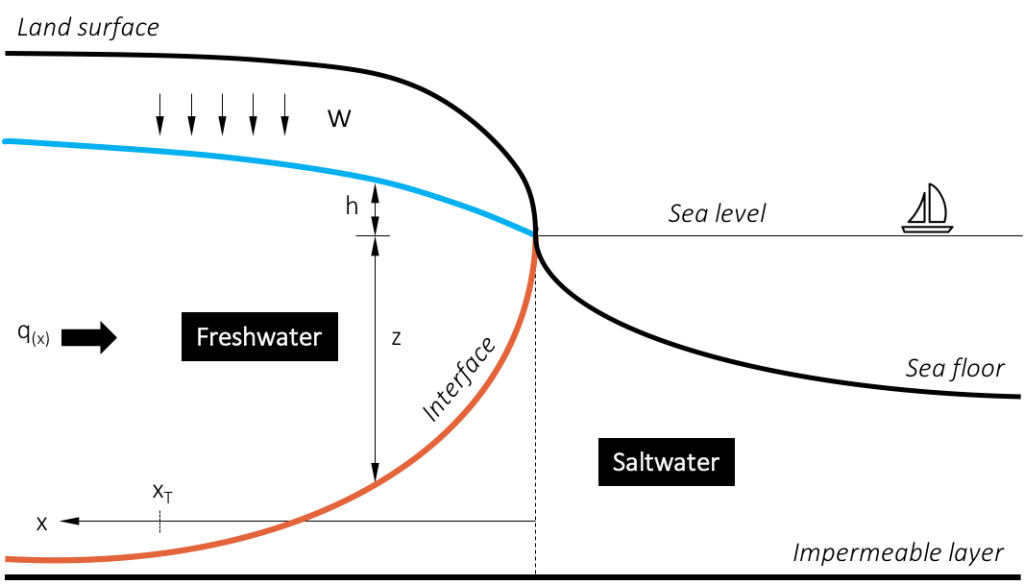
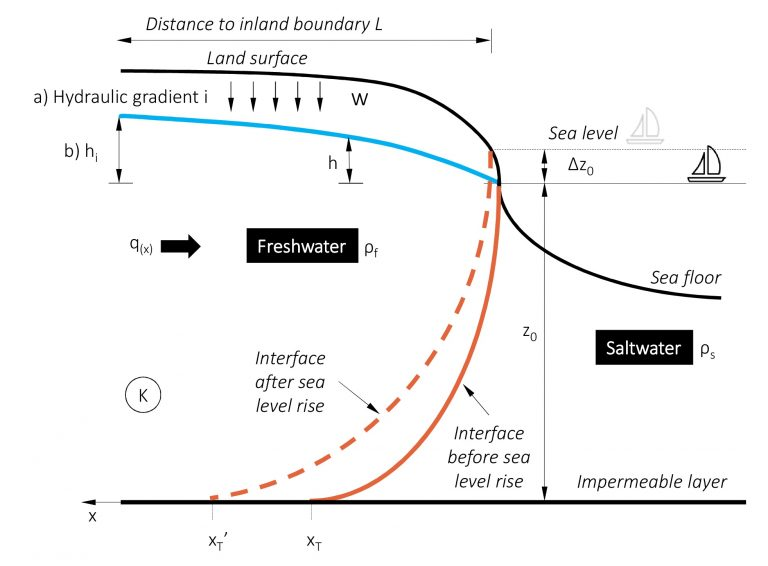
T09E: constant head implemented

diff --git a/src/t09/components/chartT09E.jsx b/src/t09/components/chartT09E.jsx
@@ -5,48 +5,158 @@ import {pure} from 'recompose';
 import '../../less/toolDiagram.less';
 
 import {
-    Bar,
-    BarChart,
-    Legend,
     ResponsiveContainer,
-    XAxis
-} from 'recharts';
+    LineChart,
+    Line,
+    XAxis,
+    YAxis,
+    CartesianGrid,
+    ReferenceLine
+} from "recharts";
 
-const Chart = () => {
+// TODO: implement this eq in library
+
+export function calculateDiagramData(xt,z0, xt_slr, z0_slr, valid) {
+
+    let data = [{
+        xt: 0,
+        z0: 0,
+        z0_new: 0
+    },{
+        xt: -xt,
+        z0: -z0,
+        z0_new: -(z0_slr*(xt/xt_slr))
+    },{
+        xt: -xt_slr,
+        z0_new: -z0_slr
+    }
+    ];
+    if (valid === 'false') data =[{        xt: 0,
+        z0: 0,
+        z0_new: 0}];
+    return data;
+}
+
+export function dRho(rhof, rhos){
+    return rhof/(rhos-rhof);
+}
+
+export  function calcXtQ0(K, z0, dz, L, W, hi, alpha) {
+    const zn = z0+dz;
+    var   loop = 1;
+    const ht = z0/alpha;
+    const term1 = ((hi+zn)*(hi+zn)-(ht+zn)*(ht+zn))*K/2. ;
+    var q0 = 1; //start value
+    var q0_old = q0;
+    var xt = 0;
+    var iter = 0; var max_iter = 'false';
+    const iter_max = 100;
+    const q_min = Math.sqrt((W*K*(1+alpha)*zn*zn)/(alpha*alpha));
+    var valid = 'true';
+    do {
+        if ((q0 * q0 / (W * W)) < (K * (1 + alpha) * zn * zn) / (W * alpha * alpha)){ valid = 'false'; break;}
+        xt = (q0 / W) - Math.sqrt((q0 * q0 / (W * W)) - (K * (1 + alpha) * zn * zn) / (W * alpha * alpha));
+        q0 = (term1 / (L - xt)) + W * (L + xt) / 2;
+        if (Math.abs(q0_old-q0)<0.0000001) loop = 0;
+        q0_old = q0;
+        iter++;
+    } while (loop === 1 && iter < iter_max);
+    if (iter === iter_max){max_iter = 'true';}
+    return [xt, q0, max_iter, valid]
+}
+export function resultDiv(max_iter, valid, dxt) {
+    if (valid === 'false'){
+        return (
+            <div className="diagram-labels-left">
+                <div className="diagram-label">
+                    <p>Invalid values: square root gets minus.</p>
+                    <p>Offshore discharge rate is less than minimum discharge rate</p>
+                </div>
+            </div>
+        );
+    }
+    if (max_iter === 'true'){
+        return (
+            <div className="diagram-labels-left">
+                <div className="diagram-label">
+                    <p>Maximum number of iterations are conducted.</p>
+                    <p>Change in x <sub>t</sub>&nbsp;=&nbsp;<strong>{dxt.toFixed(1)}</strong>&nbsp;m</p>
+                </div>
+            </div>
+        );
+    }
+
+    return(
+        <div className="diagram-labels-left">
+            <div className="diagram-label">
+                <p>Change in x <sub>t</sub>&nbsp;=&nbsp;<strong>{dxt.toFixed(1)}</strong>&nbsp;m</p>
+            </div>
+        </div>
+    );
+
+}
+const Chart = ({k, z0, l, w, dz, hi, df, ds}) => {
+    const alpha = dRho(df, ds);
+    var max_iter = 'false'; var valid = 'true';
+    var xtQ0  = calcXtQ0(k, z0, 0, l, w, hi, alpha);
+    const xt =  xtQ0[0];
+    const q0 =  xtQ0[1];    max_iter = xtQ0[2]; valid = xtQ0[3];
+        xtQ0  = calcXtQ0(k, z0, dz, l, w, hi-dz, alpha);
+    const xt_slr =  xtQ0[0]; const dxt = xt_slr-xt; // slr: after sea level rise
+    const q0_slr =  xtQ0[1];
+    if (max_iter === 'false')max_iter = xtQ0[2];
+    if (valid === 'true')valid = xtQ0[3];
+    const data = calculateDiagramData(xt,z0, xt_slr, z0+dz, valid);
     return (
         <div>
             <h2>Calculation</h2>
             <div className="grid-container">
                 <div className="col stretch">
                     <div className="diagram">
-                        <ResponsiveContainer width="100%" aspect={2.0 / 1.0}>
-                            <p>CHART HERE</p>
+                        <ResponsiveContainer width={'100%'} aspect={2.0 / 1.0}>
+                            <LineChart data={data} margin={{
+                                top: 20,
+                                right: 55,
+                                left: 50,
+                                bottom: 0
+                            }}>
+
+                                <XAxis type="number" dataKey="xt"/>
+                                <YAxis type="number" allowDecimals={false} tickLine={false} tickFormatter={(x) => {return x.toFixed(1)}} orientation="right"/>
+                                <CartesianGrid strokeDasharray="3 3"/>
+                                <Line isAnimationActive={false} type="basis" dataKey={'z0'} stroke="#ED8D05" strokeWidth="5" dot={false}/>
+                                <Line isAnimationActive={false} type="basis" dataKey={'z0_new'} stroke="#1EB1ED" strokeWidth="5" dot={false}/>
+                            </LineChart>
                         </ResponsiveContainer>
-                        <div className="diagram-labels-right">
-                            <div className="diagram-label">
-                                <p>Label here</p>
-                            </div>
-                            <div className="diagram-label">
-                                <p>Label here</p>
-                            </div>
+                        <div className="diagram-ylabels-right">
+                            <p>z<sub>0</sub> (m)</p>
                         </div>
+                        {resultDiv(max_iter, valid, dxt)}
+                        <p className="center-vertical center-horizontal">x<sub>w</sub> (m)</p>
                     </div>
                 </div>
-                <div className="col col-rel-0-5">
-                    <ul className="nav nav-stacked" role="navigation">
-                        <li><button className="button">PNG</button></li>
-                        <li><button className="button">CSV</button></li>
-                    </ul>
-                </div>
+                {/*<div className="col col-rel-0-5">*/}
+                {/*<ul className="nav nav-stacked" role="navigation">*/}
+                {/*<li>*/}
+                {/*<button className="button">PNG</button>*/}
+                {/*</li>*/}
+                {/*<li>*/}
+                {/*<button className="button">CSV</button>*/}
+                {/*</li>*/}
+                {/*</ul>*/}
+                {/*</div>*/}
             </div>
         </div>
     );
 };
 
 Chart.propTypes = {
-    h: PropTypes.number.isRequired,
+    k: PropTypes.number.isRequired,
+    l: PropTypes.number.isRequired,
+    w: PropTypes.number.isRequired,
+    z0: PropTypes.number.isRequired,
+    ds: PropTypes.number.isRequired,
     df: PropTypes.number.isRequired,
-    ds: PropTypes.number.isRequired
 };
 
 export default pure(Chart);

diff --git a/src/t09/reducers/T09E.js b/src/t09/reducers/T09E.js
@@ -10,16 +10,16 @@ export const getInitialState = (tool) => {
             name: 'Hydraulic conductivity, K (m/d)',
             min: 1,
             max: 100,
-            value: 50,
+            value: 10,
             stepSize: 1,
             decimals: 0
         }, {
             order: 1,
-            id: 'z',
+            id: 'z0',
             name: 'Depth to base of aquifer, z0 (m)',
             min: 0,
             max: 100,
-            value: 15,
+            value: 25,
             stepSize: 1,
             decimals: 0
         }, {
@@ -27,8 +27,8 @@ export const getInitialState = (tool) => {
             id: 'l',
             name: 'Distance to inland boundary, L (m)',
             min: 0,
-            max: 100,
-            value: 50,
+            max: 10000,
+            value: 2000,
             stepSize: 1,
             decimals: 0
         }, {
@@ -36,17 +36,17 @@ export const getInitialState = (tool) => {
             id: 'w',
             name: 'Recharge rate, w (m³/d)',
             min: 0,
-            max: 200,
-            value: 50,
-            stepSize: 1,
-            decimals: 0
+            max: 0.001,
+            value: 0.0001,
+            stepSize: 0.0001,
+            decimals: 4
         }, {
             order: 4,
             id: 'dz',
             name: 'Sea level rise, dz0 (m)',
             min: 0,
-            max: 0.5,
-            value: 0.1,
+            max: 2,
+            value: 1,
             stepSize: 0.01,
             decimals: 2
         }, {
@@ -54,10 +54,10 @@ export const getInitialState = (tool) => {
             id: 'hi',
             name: 'Constant head at inland boundary, hi (m)',
             min: 0,
-            max: 100,
-            value: 5,
-            stepSize: 1,
-            decimals: 0
+            max: 10,
+            value: 2,
+            stepSize: 0.1,
+            decimals: 1
         }, {
             order: 6,
             id: 'df',

diff --git a/src/t09/containers/T09.js b/src/t09/containers/T09.js
@@ -9,7 +9,7 @@ import image9A from '../../images/tools/T09A.png';
 import image9B from '../../images/tools/T09B.png';
 import image9C from '../../images/tools/T09C.png';
 import image9D from '../../images/tools/T09D.png';
-// import image9E from '../../images/tools/T09E.png';
+import image9E from '../../images/tools/T09E.png';
 
 import Icon from '../../components/primitive/Icon';
 import Navbar from '../../containers/Navbar';
@@ -100,6 +100,18 @@ class T09 extends React.Component {
                             </p>
                             <div className="center-horizontal center-vertical">
                                 <img className="sketch-image" src={image9D}/>
+                            </div>
+                        </div>
+                    </a>
+                    <a style={{'cursor': 'pointer'}} onClick={() => this.redirectTo('T09E')}
+                       className="tile col col-rel-1-t13">
+                        <div className="div-block">
+                            <h1>T09E</h1>
+                            <p className="p-height">
+                                Sea level rise
+                            </p>
+                            <div className="center-horizontal center-vertical">
+                                <img className="sketch-image" src={image9E}/>
                             </div>
                         </div>
                     </a>

diff --git a/src/t09/containers/T09E.js b/src/t09/containers/T09E.js
@@ -6,7 +6,7 @@ import {withRouter} from 'react-router';
 import '../../less/4TileTool.less';
 
 import image from '../../images/tools/T09E.png';
-import {Background, ChartT09D as Chart, Parameters} from '../components';
+import {Background, ChartT09E as Chart, Parameters} from '../components';
 import {WebData, LayoutComponents} from '../../core';
 
 import Icon from '../../components/primitive/Icon';
@@ -187,7 +187,7 @@ class T09E extends React.Component {
             <div className="app-width">
                 <Navbar links={navigation}/>
                 <h3 style={styles.heading}>
-                    T09C. Saltwater intrusion // Critical well discharge
+                    T09E. Sea level rise
                 </h3>
                 <WebData.Component.Loading status={getToolInstanceStatus}>
                     <div className="grid-container">

diff --git a/src/less/toolDiagram.less b/src/less/toolDiagram.less
@@ -33,7 +33,12 @@
     left: 15px;
     transform: rotate(-90deg);
 }
-
+.diagram-ylabels-right{
+    position: absolute;
+    bottom: 170px;
+    left: 625px;
+    transform: rotate(90deg);
+}
 .diagram-label {
     text-align: center;
     background: #EFF3F6;
